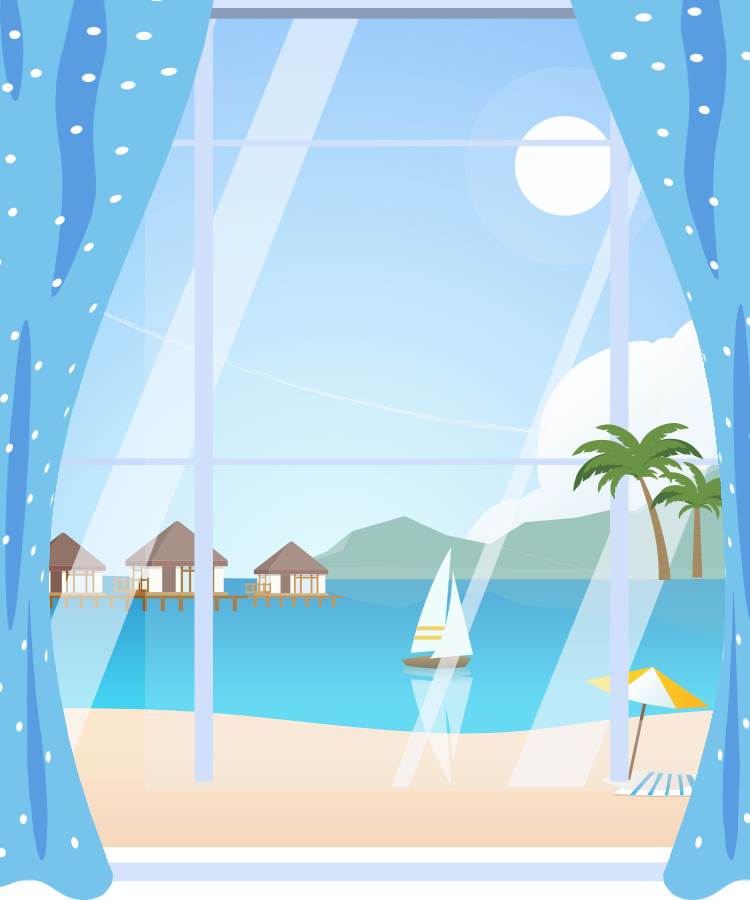
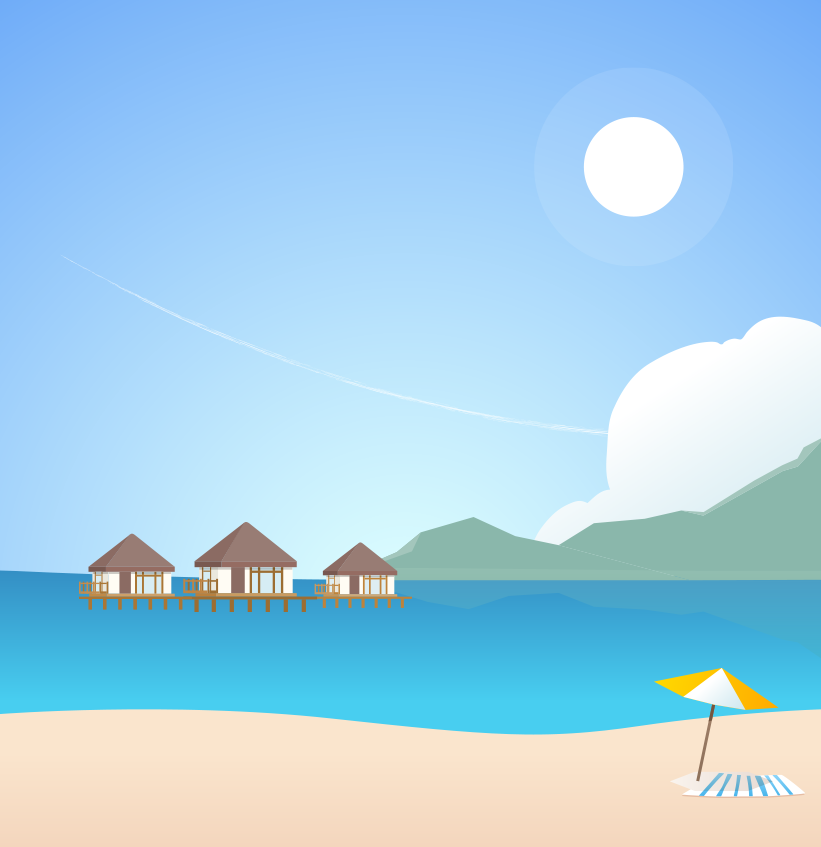
loding页完成

diff --git a/css/index.css b/css/index.css
@@ -46,3 +46,140 @@ html {
   left: 0;
   overflow: hidden;
 }
+.box .page1 .scenery {
+  width: 109.46666667vw;
+  height: 112.93333333vw;
+  position: absolute;
+  left: 50%;
+  margin-left: -54.73333333vw;
+  top: 1.73333333vw;
+}
+.box .page1 .ship {
+  width: 9.46666667vw;
+  height: 17.46666667vw;
+  position: absolute;
+  right: 36.93333333vw;
+  top: 73.33333333vw;
+}
+.box .page1 .glass {
+  width: 100vw;
+  height: 117.6vw;
+  position: absolute;
+  left: 50%;
+  margin-left: -50vw;
+  top: 0;
+}
+.box .page1 .tree {
+  width: 23.06666667vw;
+  height: 20.93333333vw;
+  position: absolute;
+  right: 0.66666667vw;
+  top: 58vw;
+}
+.box .page1 .left-curtain {
+  width: 29.46666667vw;
+  height: 120vw;
+  position: absolute;
+  left: 0vw;
+  top: 0vw;
+}
+.box .page1 .right-curtain {
+  width: 26.66666667vw;
+  height: 120vw;
+  position: absolute;
+  right: 0vw;
+  top: 0vw;
+}
+.box .page1 .logo {
+  width: 16.4vw;
+  height: 22vw;
+  position: absolute;
+  left: 50%;
+  margin-left: -8.2vw;
+  top: 6.8vw;
+}
+.box .page1 .slogan {
+  width: 94.93333333vw;
+  height: 44.53333333vw;
+  position: absolute;
+  left: 50%;
+  margin-left: -47.46666667vw;
+  top: 33.33333333vw;
+}
+.box .page1 .ellipse {
+  width: 84vw;
+  height: 67.06666667vw;
+  position: absolute;
+  left: 1.33333333vw;
+  top: 78vw;
+}
+.box .page1 .peoplebox {
+  width: 100vw;
+  height: 61.33333333vw;
+  position: absolute;
+  left: 50%;
+  margin-left: -50vw;
+  top: 91.2vw;
+}
+.box .page1 .peoplebox .sofa {
+  width: 95.6vw;
+  height: 51.86666667vw;
+  position: absolute;
+  left: 50%;
+  margin-left: -47.8vw;
+  top: 6vw;
+}
+.box .page1 .peoplebox .man {
+  width: 54.53333333vw;
+  height: 34.26666667vw;
+  position: absolute;
+  left: 16.26666667vw;
+  top: 0vw;
+}
+.box .page1 .peoplebox .man1 {
+  width: 54.53333333vw;
+  height: 34.26666667vw;
+  position: absolute;
+  left: 16.26666667vw;
+  top: 0vw;
+}
+.box .page1 .peoplebox .vasebox {
+  width: 26.93333333vw;
+  height: 34vw;
+  position: absolute;
+  right: 0vw;
+  bottom: 0vw;
+}
+.box .page1 .peoplebox .vasebox .flower {
+  width: 27.86666667vw;
+  height: 24vw;
+  position: absolute;
+  right: 0vw;
+  top: 0vw;
+}
+.box .page1 .peoplebox .vasebox .vese {
+  width: 15.6vw;
+  height: 11.2vw;
+  position: absolute;
+  right: 2vw;
+  bottom: 0vw;
+}
+.box .page1 .text2 {
+  width: 65.73333333vw;
+  height: 17.2vw;
+  position: absolute;
+  left: 50%;
+  margin-left: -32.86666667vw;
+  bottom: 27.06666667vw;
+}
+.box .page1 .btnbox {
+  width: 29.86666667vw;
+  height: 15.33333333vw;
+  position: absolute;
+  left: 50%;
+  margin-left: -14.93333333vw;
+  bottom: 9.33333333vw;
+}
+.box .page1 .orthogon {
+  padding: 2vw;
+}

diff --git a/less/index.less b/less/index.less
@@ -108,6 +108,95 @@ html {
     top: 50%;
     margin-top: -@h/2/@vw;
 }
+.box{
+    .page1{
+        .scenery{
+            .setwh(821, 847);
+            .cl(821);
+            top: 13 / @vw;
+        }
+        .ship{
+            .setwh(71, 131);
+            .rt(277,550);
+            
+        }
+        .glass{
+            .setwh(750, 882);
+            .cl(750);
+            top: 0;
+        }
+        .tree{
+            .setwh(173, 157);
+            .rt(5,435);
+        }
+        .left-curtain{
+            .setwh(221, 900);
+            .lt(0,0);
+        }
+        .right-curtain{
+            .setwh(200, 900);
+            .rt(0,0);
+        }
+        .logo{
+            .setwh(123, 165);
+            .cl(123);
+            top: 51 / @vw;
+        }
+        .slogan{
+            .setwh(712,334);
+            .cl(712);
+            top: 250 / @vw;
+        }
+        .ellipse{
+            .setwh(630, 503);
+            .lt(10,585);
+        }
+        .peoplebox{
+            .setwh(750,460);
+            .cl(750);
+            top: 684 / @vw;
+            .sofa{
+                .setwh(717, 389);
+                .cl(717);
+                top: 45 / @vw;
+            }
+            .man{
+                .setwh(409, 257);
+                .lt(122,0)
+            }
+            .man1{
+                .setwh(409, 257);
+                .lt(122,0)
+            }
+            .vasebox{
+                .setwh(202, 255);
+                .rb(0,0);
+                .flower{
+                    .setwh(209, 180);
+                    .rt(0, 0)
+                }
+                .vese{
+                    .setwh(117, 84);
+                    .rb(15,0)
+                }
+            }
+        }
+        .text2{
+            .setwh(493, 129);
+            .cl(493);
+            bottom: 203 / @vw;
+        }
+        .btnbox{
+            .setwh(224, 115);
+            .cl(224);
+            bottom: 70 / @vw;
+        }
+        .orthogon{
+            padding: 15 / @vw;
+        }
+
+    }
+}
 
 
 

diff --git a/readme.md b/readme.md
@@ -1,0 +1,1 @@
+地址： http://dlw.yushuo.mobi/light/
